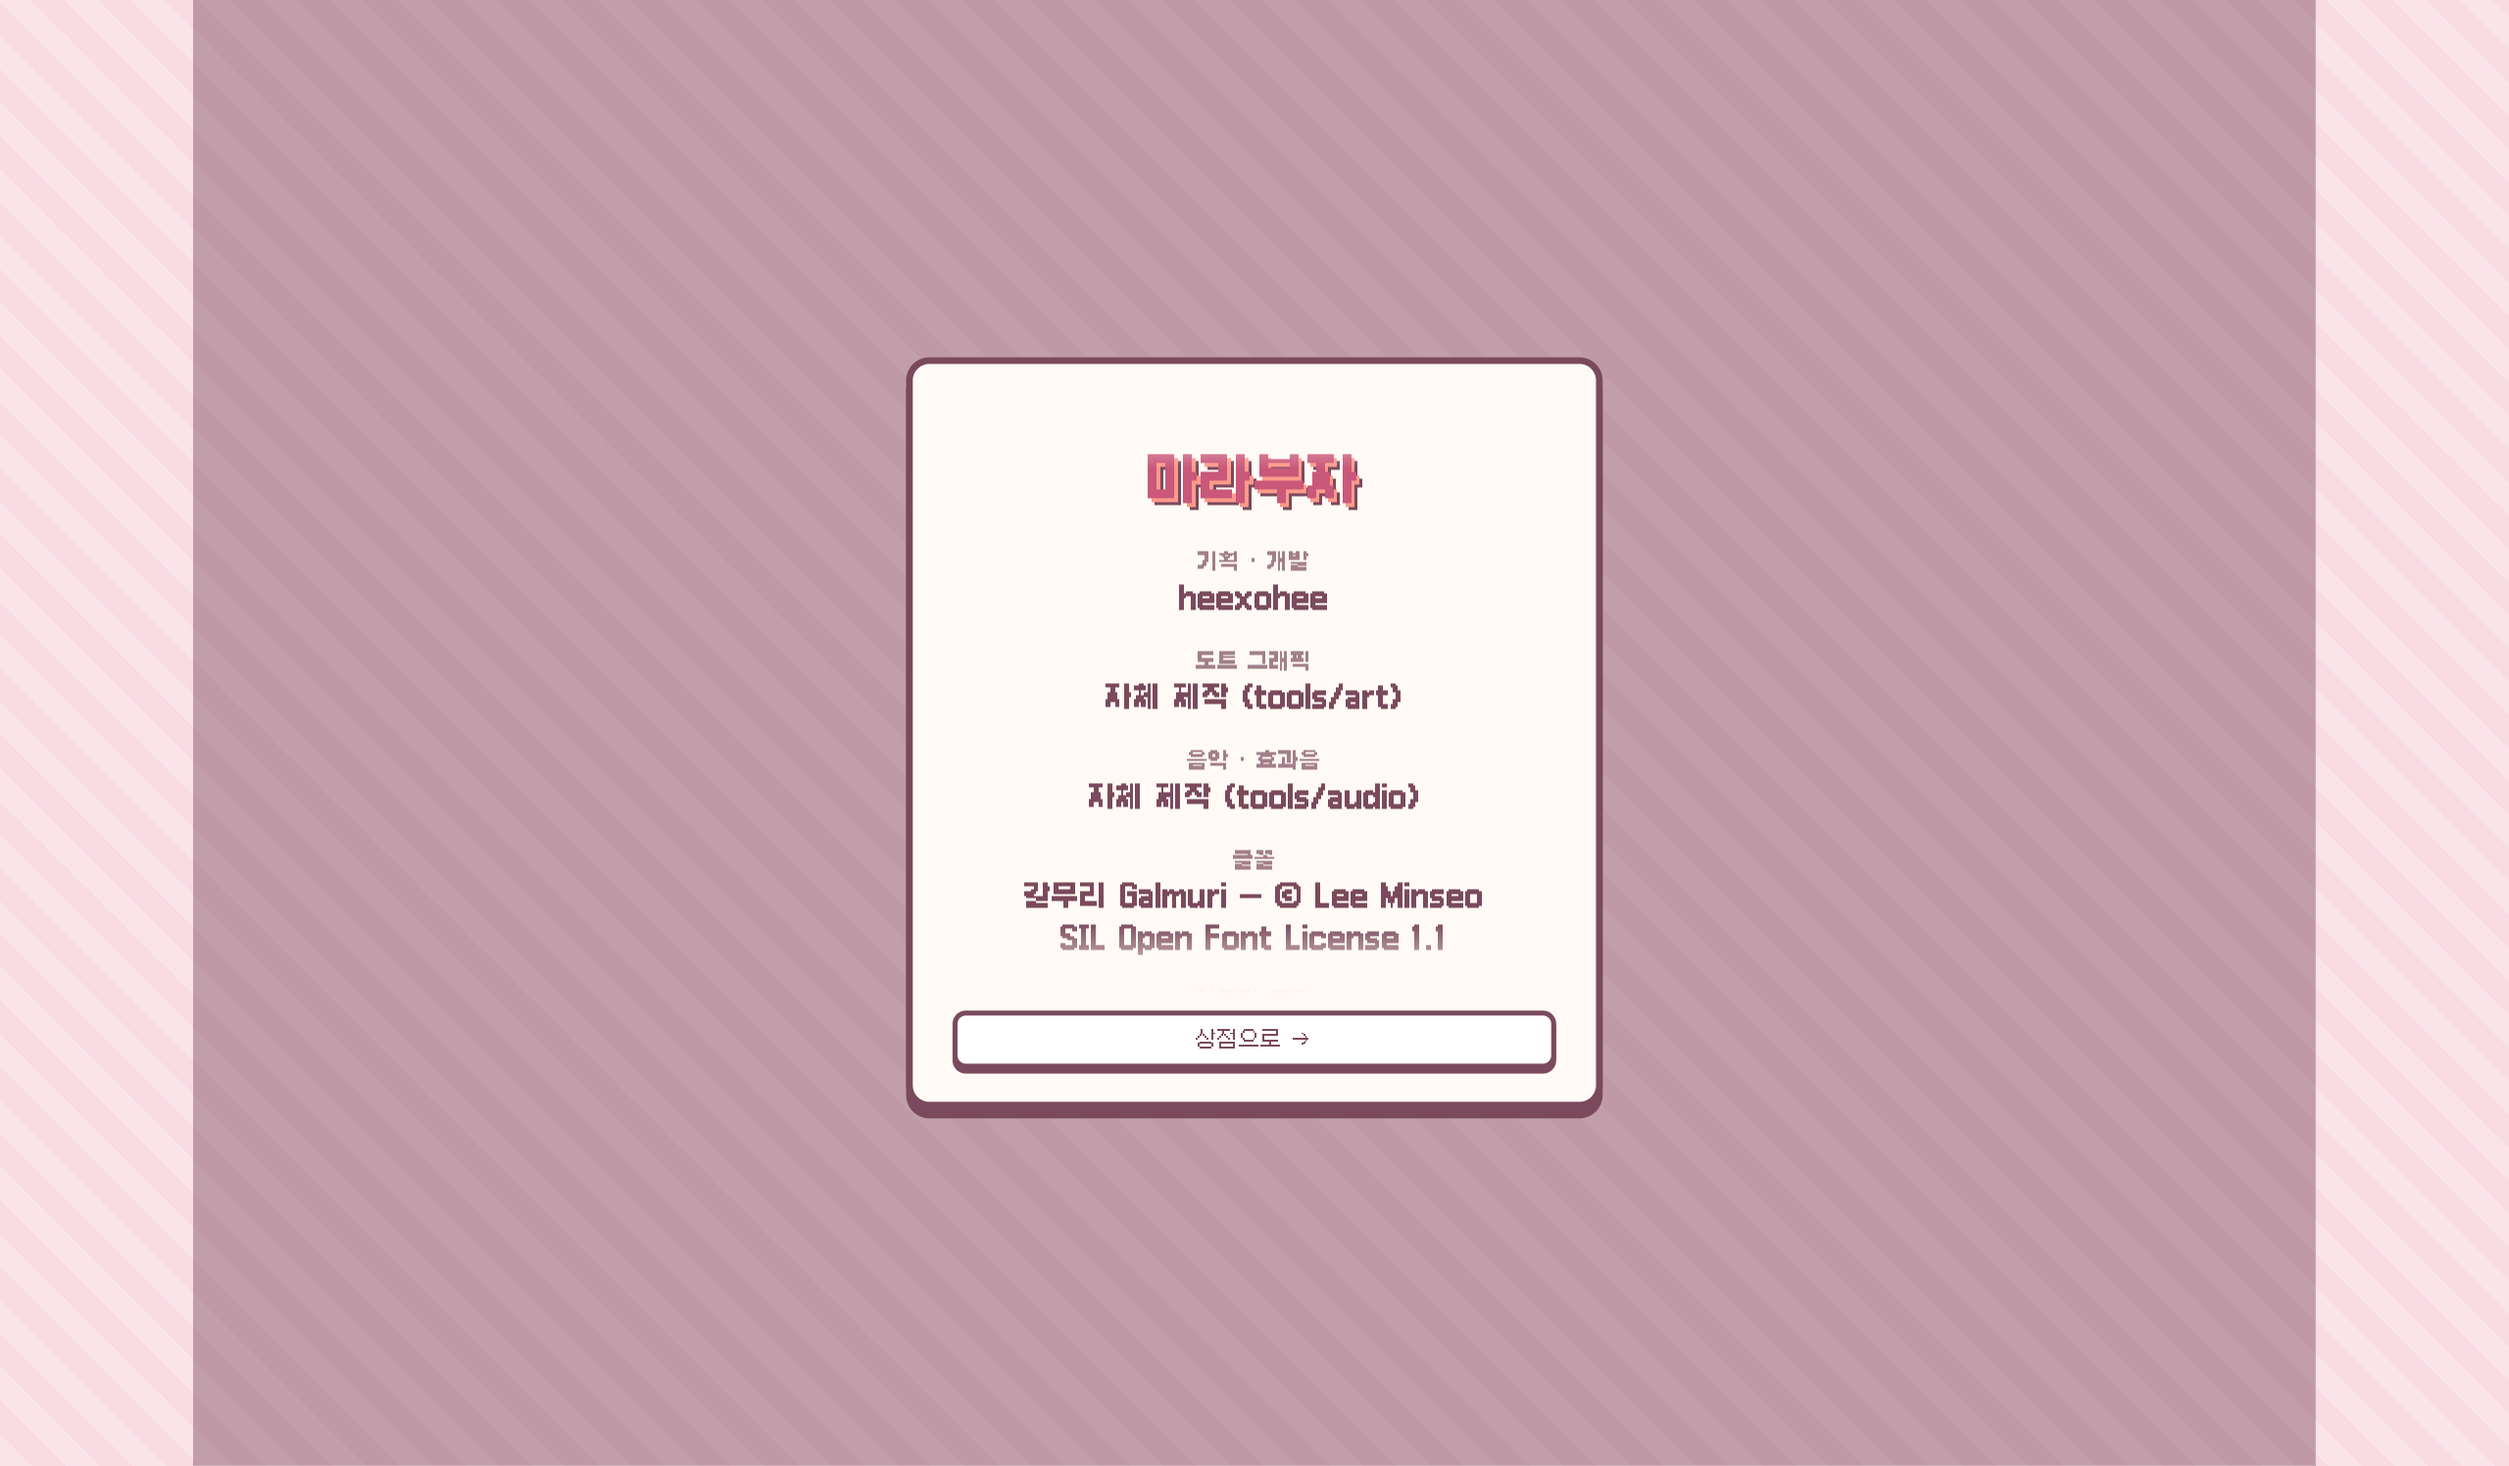
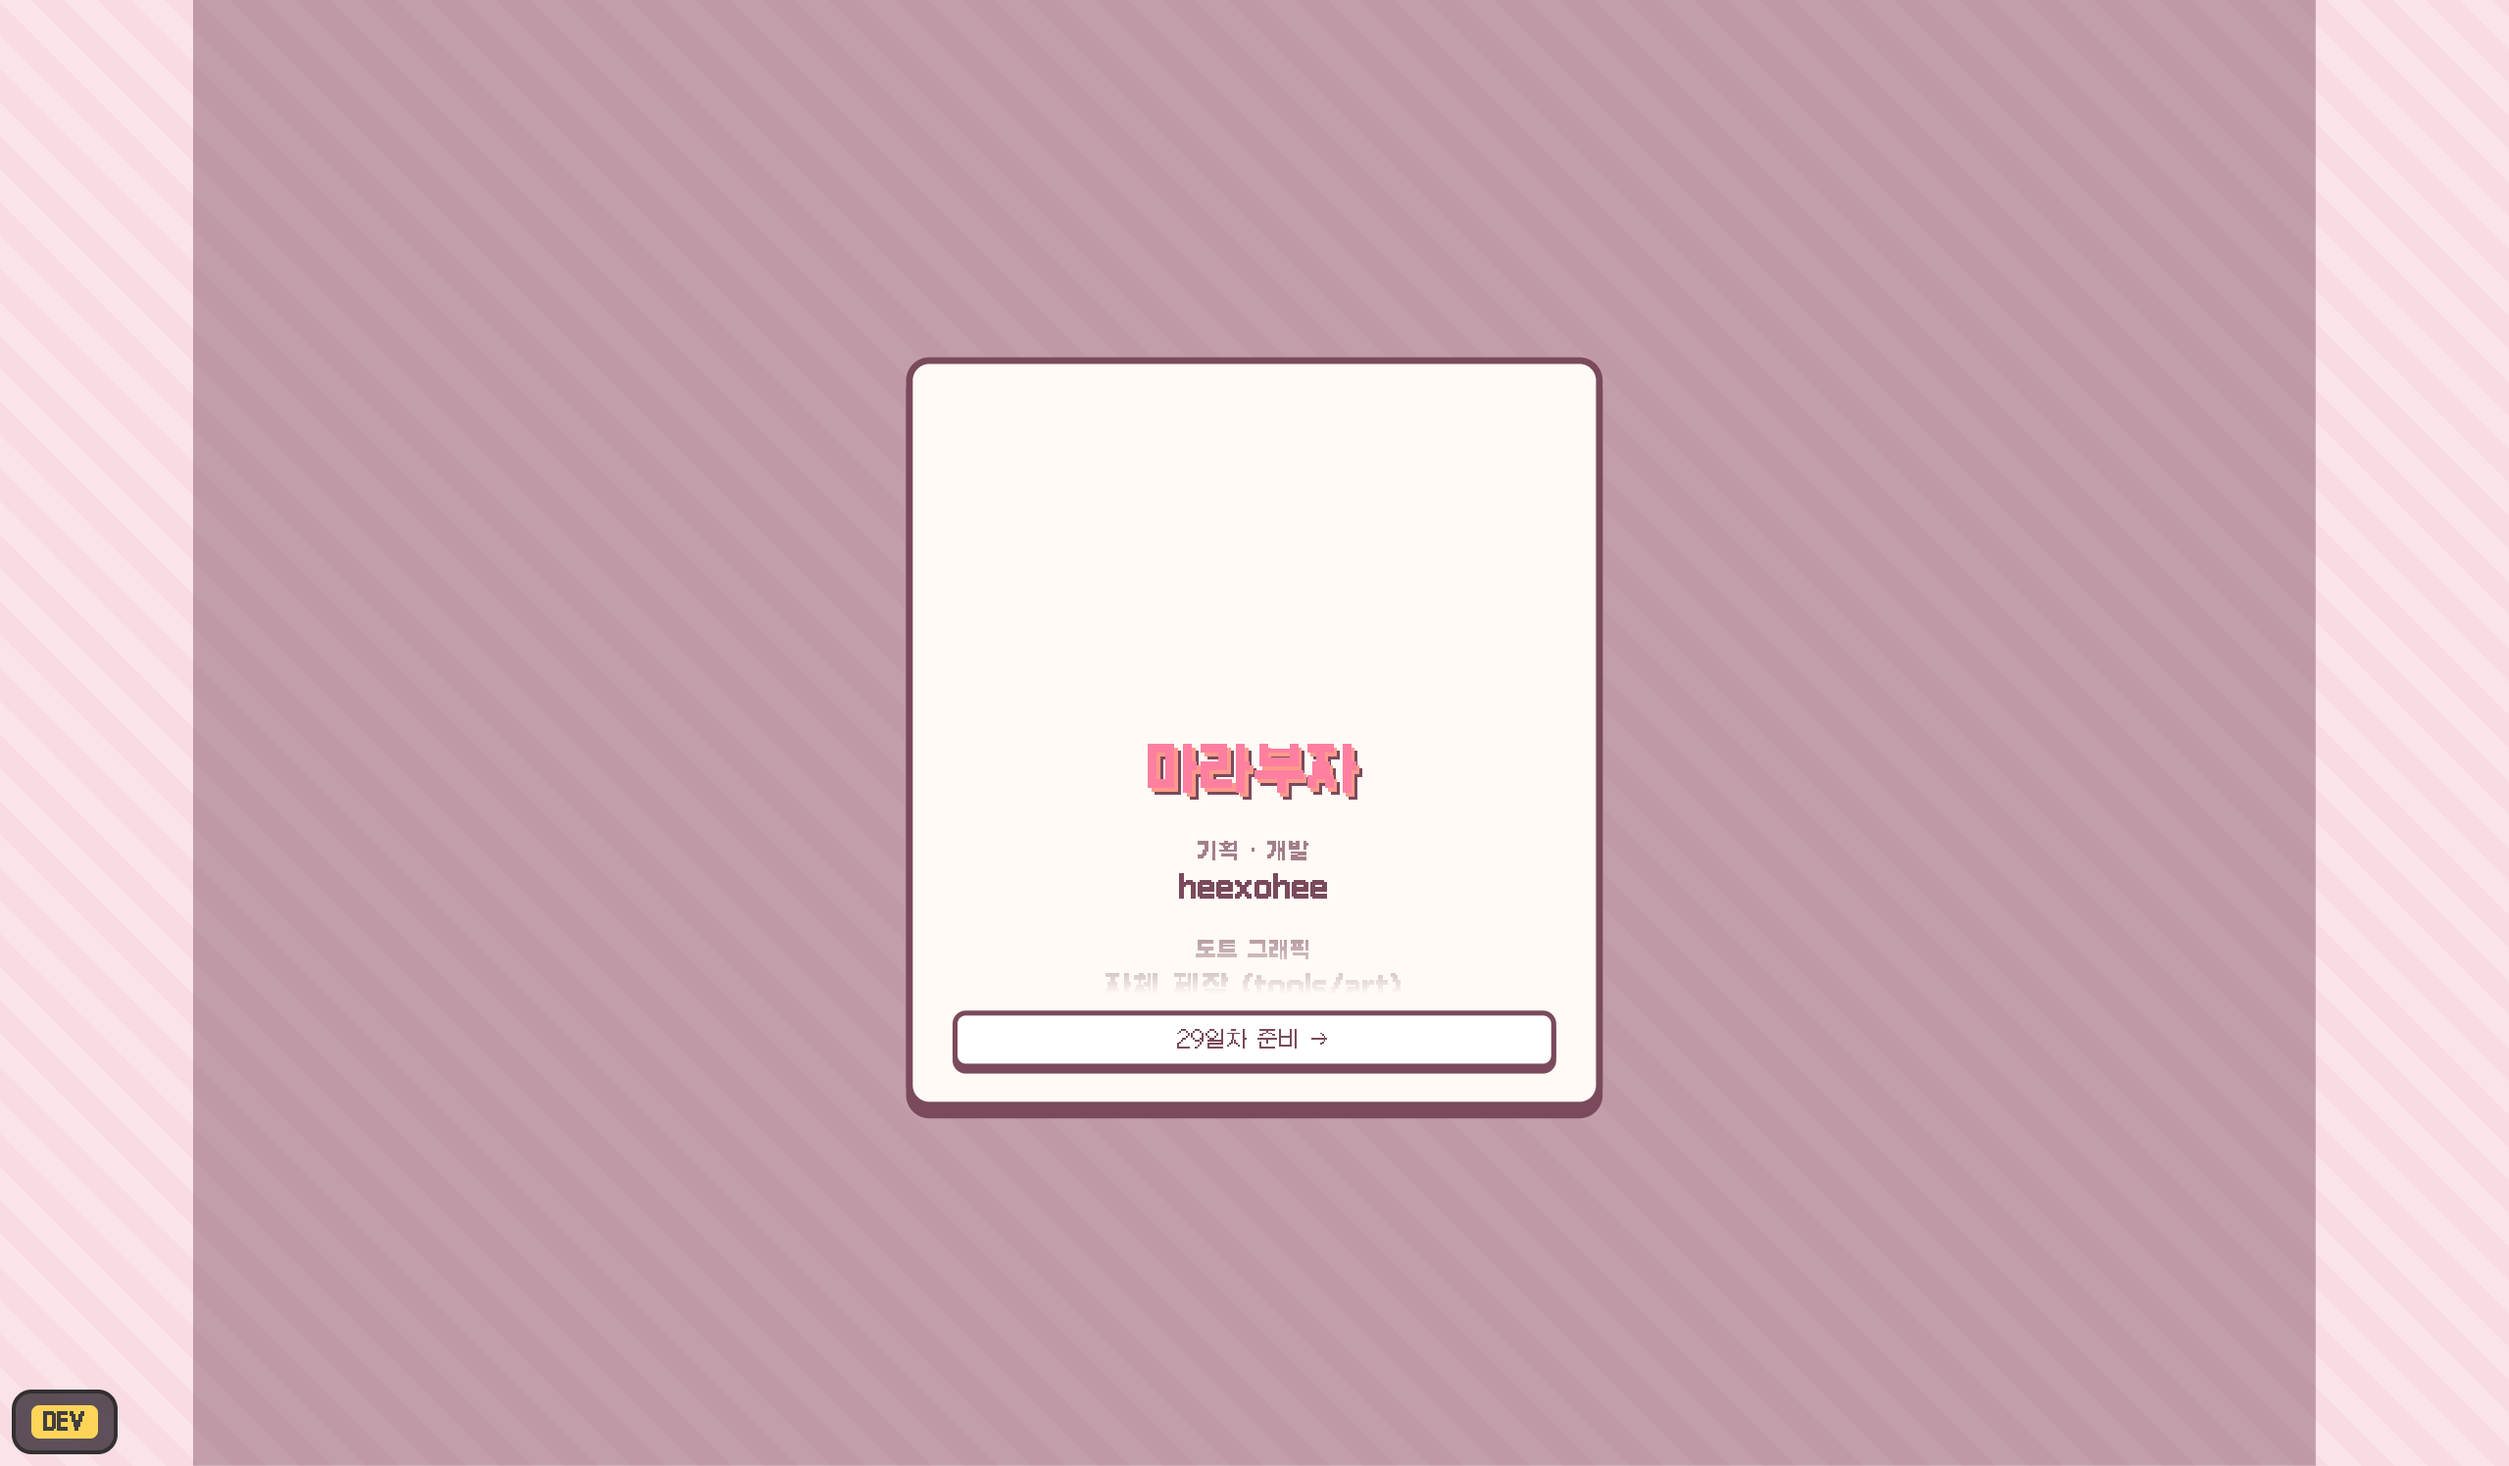
fix: 엔딩 크레딧 "마라부자" 제목을 상점 제목과 같은 분홍 로고로
`.modal h2`(진한 빨강 · 22px)가 .title-logo보다 우선해서 크레딧 제목만 다른 색·크기로 보이던 것 — 크레딧 안에서 상점 헤더와 같은 색(#ff7fa0)·32px로 되돌림

Story: part1-story N003

Changed region(s): [[0.4062, 0.3075, 0.5938, 0.6765], [0.0, 0.9225, 0.0625, 1.0], [0.4688, 0.7072, 0.5, 0.738]]

diff --git a/src/self-serve.css b/src/self-serve.css
@@ -796,7 +796,8 @@ html[data-screen="menu"] .title-anim.on { display: block; }
 .credits-window { height: min(360px, 60vh); overflow: hidden; position: relative;
   mask-image: linear-gradient(transparent, #000 12%, #000 88%, transparent); }
 .credits-roll { display: flex; flex-direction: column; gap: 18px; padding: 100% 0; animation: credits-roll 26s linear infinite; }
-.credits-roll .title-logo { margin: 0; }
+/* same logo as the shop header: `.modal h2` (dark red, 22px) outranks .title-logo, so restore both here */
+.modal .credits-roll .title-logo { margin: 0; color: #ff7fa0; font-size: 32px; }
 .credit { display: flex; flex-direction: column; gap: 2px; }
 .credit b { font-size: 13px; opacity: .7; }
 .credit span { font-size: 17px; font-weight: 700; }
